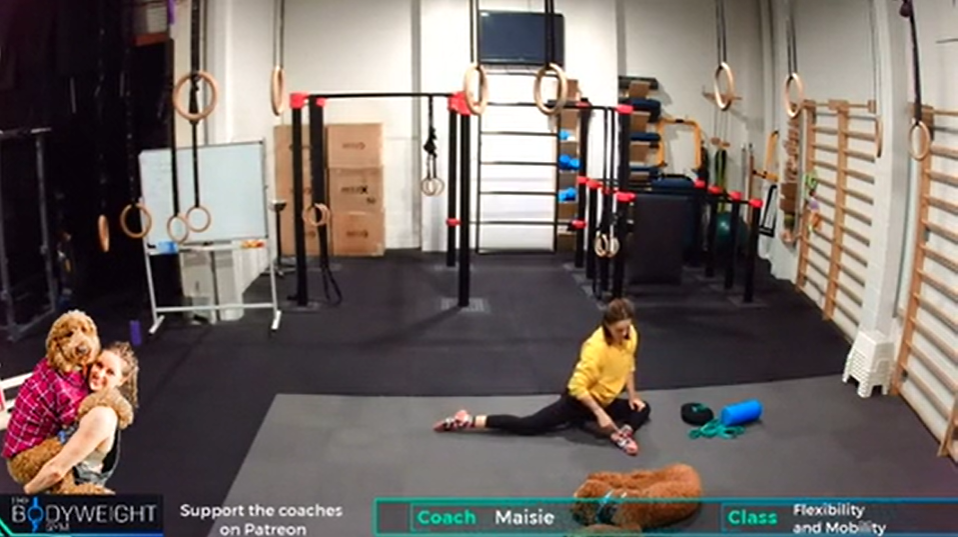
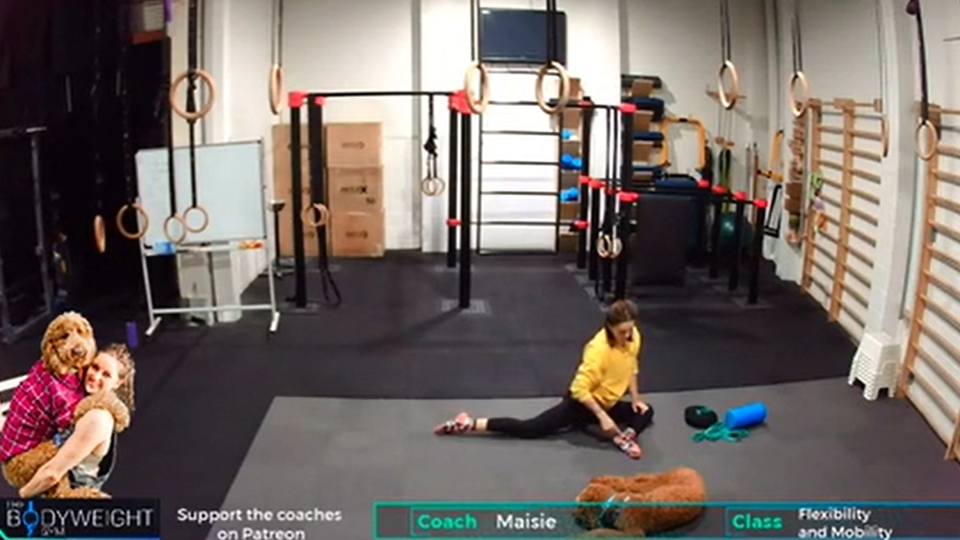
Resized screenshots to uniform size, changed hearts and ticks to tags

diff --git a/assets/scripts/filter.js b/assets/scripts/filter.js
@@ -7,6 +7,12 @@ $coachFiltersEl = $('#theCoaches');
 $workoutFilterSelected = "All";
 $coachFilterSelected = "All";
 
+// Watched Videos Array
+$watchedVideos = [];
+
+// Liked Videos Array
+$likedVideos = [];
+
 // Function to check and return the workouts colour
 function checkWorkout(which) {
 
@@ -37,21 +43,27 @@ function checkCoach(which) {
     return "";
 }
 
+// Function to check your selected filters versus the videos
 function checkSelection(whichCoach, whichWorkout) {
     
+    // If all is selected for both
     if (($workoutFilterSelected === "All") && ($coachFilterSelected === "All")){
         return true;
     }
+    // If a specific workout is selected with all coaches
     else if (($workoutFilterSelected === whichWorkout) && ($coachFilterSelected === "All")){
         return true;
     }
+    // If a specific coach is selected with all workouts
     else if (($coachFilterSelected === whichCoach) && ($workoutFilterSelected === "All")){
         return true;
     }
+    // If a specific coach and workout is selected
     else if (($workoutFilterSelected === whichWorkout) && ($coachFilterSelected === whichCoach)){
         return true;
     }
     
+    // Otherwise, return false
     return false;
 }
 
@@ -108,17 +120,22 @@ function displayVideos() {
             $newCoach.addClass(checkCoach($thisCoach));
 
             // Create the Heart Icon
-            var $newHeart = $("<i>");
+            var $newHeart = $("<span>");
+            $newHeart.attr("class", "tag");
             // Has the Video been Liked?
             // $newHeart.attr("class","fas fa-heart");
-            $newHeart.attr("class", "far fa-heart");
-            $newHeart.attr("style", "margin-left: auto; margin-right: 10px")
+            var $newIcon = $('<i>');            
+            $newIcon.attr("class", "far fa-heart");
+            $newHeart.append($newIcon);
 
             // Create the Viewed Icon
             var $newViewed = $('<i>');
+            $newViewed.attr("class", "tag");
             // Has the Video been Viewed?
             // $newViewed.attr("class","fas fa-check-circle");
-            $newViewed.attr("class", "far fa-check-circle");
+            var $newTick = $('<i>');            
+            $newTick.attr("class", "far fa-check-circle");
+            $newViewed.append($newTick);
 
             // Append Everything
             $newTags.append($newWorkout, $newCoach, $newHeart, $newViewed);
